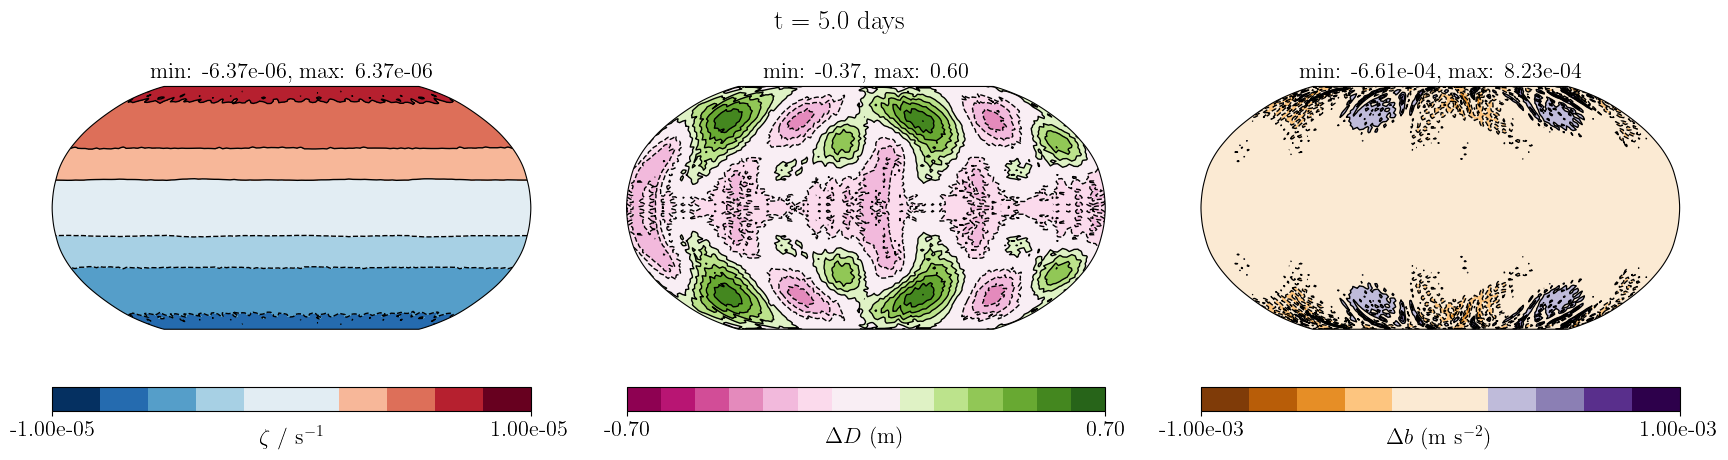
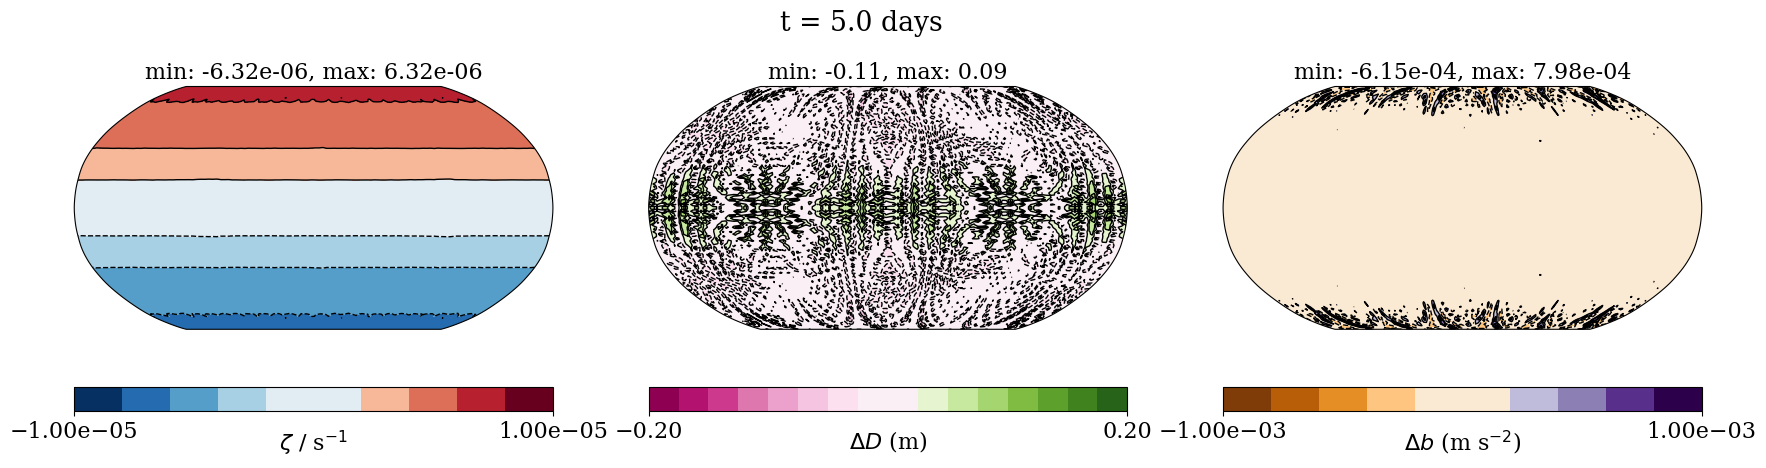
Changes in response to Jemma + Fixes to Nell Solver

diff --git a/gusto/timestepping/semi_implicit_quasi_newton.py b/gusto/timestepping/semi_implicit_quasi_newton.py
@@ -37,7 +37,7 @@ class SemiImplicitQuasiNewton(BaseTimestepper):
     """
 
     def __init__(self, equation_set, io, transport_schemes, spatial_methods,
-                 auxiliary_equations_and_schemes=None, linear_solver=None,
+                 auxiliary_equations_and_schemes=None,
                  diffusion_schemes=None, inner_physics_schemes=None,
                  final_physics_schemes=None,
                  slow_physics_schemes=None, fast_physics_schemes=None,
@@ -61,8 +61,6 @@ class SemiImplicitQuasiNewton(BaseTimestepper):
             auxiliary_equations_and_schemes: iterable of ``(equation, scheme)``
                 pairs indicating any additional equations to be solved and the
                 scheme to use to solve them. Defaults to None.
-            linear_solver (:class:`TimesteppingSolver`, optional): the object
-                to use for the linear solve. Defaults to None.
             diffusion_schemes (iter, optional): iterable of pairs of the form
                 ``(field_name, scheme)`` indicating the fields to diffuse, and
                 the :class:`~.TimeDiscretisation` to use. Defaults to None.
@@ -203,21 +201,19 @@ class SemiImplicitQuasiNewton(BaseTimestepper):
         # BCs, Forcing and Linear Solver ---------------------------------------
         self.bcs = equation_set.bcs
         self.forcing = Forcing(equation_set, self.implicit_terms, self.alpha)
-        if linear_solver is None:
-            if linear_solver_parameters is None:
-                self.linear_solver_parameters, self.appctx = \
-                    hybridised_solver_parameters(equation_set, alpha=self.alpha, tau_values=tau_values)
-            else:
-                self.linear_solver_parameters = linear_solver_parameters
-                self.appctx = appctx
-            self.linear_solver = QuasiNewtonLinearSolver(
-                equation_set, solver_prognostics, self.implicit_terms,
-                self.alpha, tau_values=tau_values,
-                solver_parameters=self.linear_solver_parameters,
-                appctx=self.appctx
-            )
+
+        if linear_solver_parameters is None:
+            self.linear_solver_parameters, self.appctx = \
+                hybridised_solver_parameters(equation_set, alpha=self.alpha, tau_values=tau_values)
         else:
-            self.linear_solver = linear_solver
+            self.linear_solver_parameters = linear_solver_parameters
+            self.appctx = appctx
+        self.linear_solver = QuasiNewtonLinearSolver(
+            equation_set, solver_prognostics, self.implicit_terms,
+            self.alpha, tau_values=tau_values,
+            solver_parameters=self.linear_solver_parameters,
+            appctx=self.appctx
+        )
 
         # Options relating to reference profiles and spin-up -------------------
         self._alpha_original = float(alpha)  # float so as to not upset adjoint
@@ -939,7 +935,7 @@ class QuasiNewtonLinearSolver(object):
             self.equation.update_reference_profiles()
             self.solver.invalidate_jacobian()
 
-            # TODO: Issue X is to address this reference profile update bug (pythonPC update not called)
+            # TODO: Issue #686 is to address this reference profile update bug (pythonPC update not called)
             # this line forces it to update for now
             pc = self.solver.snes.getKSP().getPC()
             if (isinstance(self.equation, CompressibleEulerEquations) and pc.getType() == "python"):
@@ -958,7 +954,7 @@ class QuasiNewtonLinearSolver(object):
         for field_name in field_names:
 
             if field_name not in prognostic_names:
-                logger.debug(f'Semi-Implicit Quasi Newton: Zeroing xrhs for {field_name}')
+                logger.info(f'Semi-Implicit Quasi Newton: Zeroing xrhs for {field_name}')
                 field_index = equation.field_names.index(field_name)
                 xrhs.subfunctions[field_index].assign(0.0)
 

diff --git a/integration-tests/model/test_inner_loop_physics.py b/integration-tests/model/test_inner_loop_physics.py
@@ -7,7 +7,7 @@ physics and the ThermalSWSolver.
 
 from gusto import *
 from firedrake import (IcosahedralSphereMesh, SpatialCoordinate, pi, sqrt,
-                       min_value, cos, sin, Constant, exp, Function)
+                       min_value, cos, sin, Constant, exp, Function, dx)
 import numpy as np
 
 
@@ -32,8 +32,36 @@ def set_up_model_objects(mesh, dt, q0, beta2, nu, physics_type, output):
 
     # Equation
     tracers = [WaterVapour(space='DG'), CloudWater(space='DG')]
-    eqns = ThermalShallowWaterEquations(domain, parameters,
-                                        active_tracers=tracers)
+    if physics_type == "final":
+        eqns = ThermalShallowWaterEquations(domain, parameters,
+                                            active_tracers=tracers)
+    elif physics_type == "inner_loop":
+        eqns = ThermalShallowWaterEquations(domain, parameters,
+                                            active_tracers=tracers)
+
+        _, Dbar, bbar, qvbar, _ = eqns.X_ref.subfunctions[::]
+        _, D, b, qv, _ = eqns.X.subfunctions[::]
+        _, _, lamda, tau1, tau2 = eqns.tests[::]
+
+        # Get parameters from equation
+        q0 = eqns.parameters.q0
+        nu = eqns.parameters.nu
+        beta2 = eqns.parameters.beta2
+        g = eqns.parameters.g
+        H = eqns.parameters.H
+        b_ebar = bbar - beta2*qvbar
+        sat_expr = q0*H/(Dbar) * exp(nu*(1 - b_ebar/g))
+        P_expr = (
+            qv - sat_expr*(-D/Dbar - b*nu/g + qv*nu*beta2/g)
+        )
+        bform = subject(prognostic(physics_label(physics_beta * lamda * beta2 * P_expr * dx)), eqns.X)
+        eqns.residual += bform
+
+        qvform = subject(prognostic(physics_label(physics_beta * tau1 * P_expr * dx)), eqns.X)
+        eqns.residual += qvform
+
+        qcform = subject(prognostic(physics_label(-physics_beta * tau2 * P_expr * dx)), eqns.X)
+        eqns.residual += qcform
 
     io = IO(domain, output)
 
@@ -53,10 +81,6 @@ def set_up_model_objects(mesh, dt, q0, beta2, nu, physics_type, output):
                           SSPRK3(domain, "b", limiter=DG1limiter),
                           SSPRK3(domain, "water_vapour", limiter=DG1limiter),
                           SSPRK3(domain, "cloud_water", limiter=DG1limiter)]
-
-    # Linear solvers
-    thermal_solver = ThermalSWSolver(eqns)
-    moist_solver = MoistThermalSWSolver(eqns, physics_beta=physics_beta)
 
     # Physics
     def phys_sat_func(x_in):
@@ -79,16 +103,16 @@ def set_up_model_objects(mesh, dt, q0, beta2, nu, physics_type, output):
     if physics_type == "final":
         stepper = SemiImplicitQuasiNewton(eqns, io, transported_fields,
                                           transport_methods,
-                                          linear_solver=thermal_solver,
                                           final_physics_schemes=physics_schemes,
                                           num_outer=2, num_inner=2)
     elif physics_type == "inner_loop":
+        solver_parameters = monolithic_solver_parameters()
         stepper = SemiImplicitQuasiNewton(eqns, io, transported_fields,
                                           transport_methods,
-                                          linear_solver=moist_solver,
                                           inner_physics_schemes=physics_schemes,
                                           num_outer=2, num_inner=2,
-                                          solver_prognostics=eqns.field_names)
+                                          solver_prognostics=eqns.field_names,
+                                          linear_solver_parameters=solver_parameters)
 
     return stepper, eqns
 

diff --git a/gusto/solvers/solver_presets.py b/gusto/solvers/solver_presets.py
@@ -1,5 +1,5 @@
 """
-This module provides PETSc dictionaries for nonlinear and linear problems.
+This module provides PETSc dictionaries for linear problems.
 
 The solvers provided here are used for solving linear problems on mixed
 finite element spaces.
@@ -12,11 +12,10 @@ from firedrake import (
     VectorSpaceBasis
 )
 
-__all__ = ["hybridised_solver_parameters"]
+__all__ = ["hybridised_solver_parameters", "monolithic_solver_parameters"]
 
 
-def hybridised_solver_parameters(equation, alpha=0.5, tau_values=None,
-                                 nonlinear=False):
+def hybridised_solver_parameters(equation, alpha=0.5, tau_values=None):
     """
     Returns PETSc solver settings for hybridised solver for mixed finite
     element problems.
@@ -29,8 +28,6 @@ def hybridised_solver_parameters(equation, alpha=0.5, tau_values=None,
     tau_values : dict, optional
         A dictionary of stabilization parameters for the hybridization.
         Default is None.
-    nonlinear : bool, optional
-        Whether the problem is nonlinear. Default is False.
     Returns
     -------
     settings : dict
@@ -339,18 +336,37 @@ def hybridised_solver_parameters(equation, alpha=0.5, tau_values=None,
                       "trace_nullspace": trace_nullsp,
                       }
 
-        if nonlinear:
-            # Nonlinear solver settings.
-            settings['ksp_type'] = 'fgmres'
-            settings['snes_type'] = 'newtonls'
-            settings['snes_rtol'] = 1e-8
-            settings['snes_max_it'] = 50
-            settings['snes_monitor'] = None
-            settings['ksp_rtol'] = 1e-8
-            settings['ksp_max_it'] = 100
-            settings['ksp_atol'] = 1e-8
-            settings['snes_rtol'] = 1e-4
-            settings['snes_atol'] = 1e-6
-            settings['snes_converged_reason'] = None
-            settings['snes_view'] = None
     return settings, appctx
+
+
+def monolithic_solver_parameters():
+    """
+    Returns PETSc solver settings for monolithic solver for mixed finite
+    element problems.
+
+    Returns
+    -------
+    settings : dict
+        A dictionary containing the PETSc solver settings.
+    """
+    settings = {
+        "snes_type": "ksponly",
+        "mat_type": "matfree",
+        "ksp_type": "gmres",
+        "ksp_converged_reason": None,
+        "ksp_atol": 1e-5,
+        "ksp_rtol": 1e-5,
+        "ksp_max_it": 400,
+        "pc_type": "python",
+        "pc_python_type": "firedrake.AssembledPC",
+        "assembled_pc_star_sub_sub_pc_type": "lu",
+        "assembled_pc_type": "python",
+        "assembled_pc_python_type": "firedrake.ASMStarPC",
+        "assembled_pc_star_construct_dim": 0,
+        "assembled_pc_star_sub_sub_pc_factor_mat_ordering_type": "rcm",
+        "assembled_pc_star_sub_sub_pc_factor_reuse_ordering": None,
+        "assembled_pc_star_sub_sub_pc_factor_reuse_fill": None,
+        "assembled_pc_star_sub_sub_pc_factor_fill": 1.2
+    }
+
+    return settings

diff --git a/gusto/equations/shallow_water_equations.py b/gusto/equations/shallow_water_equations.py
@@ -436,11 +436,7 @@ class ThermalShallowWaterEquations(ShallowWaterEquations):
                 + jump(bbar*w, n) * avg(D_trial) * dS
                 + 0.5 * jump(Dbar*w, n) * avg(b_trial) * dS
                 - beta2 * D_trial * div(qvbar*w)*dx
-                - 0.5 * beta2 * qvbar * div(Dbar*w) * dx
                 + beta2 * jump(qvbar*w, n) * avg(D_trial) * dS
-                + 0.5 * beta2 * jump(Dbar*w, n) * avg(qvbar) * dS
-                - 0.5 * bbar * div(Dbar*w) * dx
-                + 0.5 * jump(Dbar*w, n) * avg(bbar) * dS
                 - 0.5 * bbar * div(D_trial*w) * dx
                 + 0.5 * jump(D_trial*w, n) * avg(bbar) * dS
                 - beta2 * 0.5 * qvbar * div(D_trial*w) * dx
@@ -465,8 +461,6 @@ class ThermalShallowWaterEquations(ShallowWaterEquations):
                                    + jump(bbar*w, n) * avg(D_trial) * dS
                                    - 0.5 * b_trial * div(Dbar*w) * dx
                                    + 0.5 * jump(Dbar*w, n) * avg(b_trial) * dS
-                                   - 0.5 * bbar * div(Dbar*w) * dx
-                                   + 0.5 * jump(Dbar*w, n) * avg(bbar) * dS
                                    - 0.5 * bbar * div(D_trial*w) * dx
                                    + 0.5 * jump(D_trial*w, n) * avg(bbar) * dS,
                                    'u'), self.X))

diff --git a/gusto/solvers/preconditioners.py b/gusto/solvers/preconditioners.py
@@ -452,8 +452,9 @@ class CompressibleHybridisedSCPC(PCBase):
     (3) Reconstruct theta
 
     This method requires special handling as Firedrake's existing hybridization
-    preconditioner assumes a linear pressure gradient term rather than the nonlinear
-    form in the Compressible Euler equations.
+    preconditioner assumes that the pressure gradient term contains variables
+    from the mixed system being solved for. In our case, we first eliminate pressure,
+    then eliminate theta analytically, violating this assumption.
     """
 
     _prefix = "compressible_hybrid_scpc"
@@ -529,13 +530,14 @@ class CompressibleHybridisedSCPC(PCBase):
         self.W = equations.function_space
         self.W_hyb = MixedFunctionSpace((self.Vu_broken, self.Vrho, self.Vtrace))
 
-        # Define
+        # Define Functions and Cofunctions for rhs and solution vectors
         self.xstar = Cofunction(self.W.dual())
         self.xrhs = Function(self.W)
         self.y = Function(self.W)
 
         self.y_hybrid = Function(self.W_hyb)
 
+        # Split input functions
         u_in, rho_in, theta_in = self.xrhs.subfunctions[0:3]
 
         # Get bcs

diff --git a/integration-tests/transport/test_zero_limiter.py b/integration-tests/transport/test_zero_limiter.py
@@ -109,7 +109,7 @@ def setup_zero_limiter(dirname, limiter=False, rain=False):
                           ]
     stepper = SemiImplicitQuasiNewton(eqns, io, transported_fields,
                                       transport_methods,
-                                      physics_schemes=physics_schemes)
+                                      final_physics_schemes=physics_schemes)
 
     # ------------------------------------------------------------------------ #
     # Initial conditions
